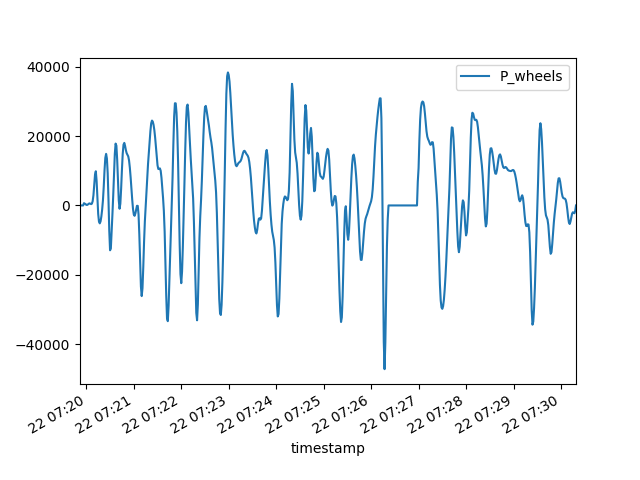
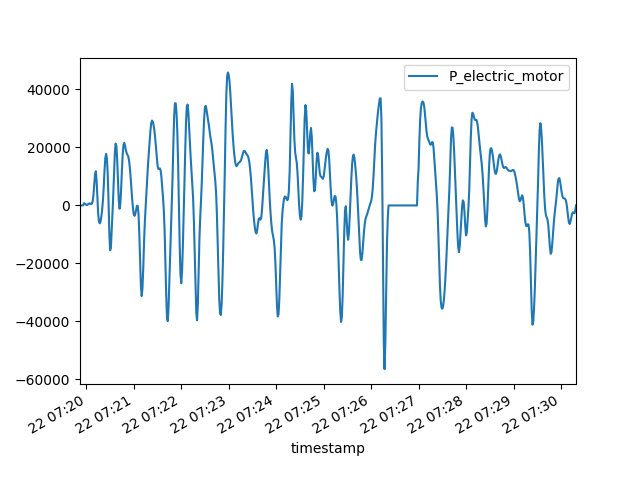
Update 'calculate_energy_consumption'
Included driveline and electric motor efficiencies into the calculation of P_electric_motor, which is added as an extra column in dataframe.

'energy_consumption.png' now plots the power consumption at the electric motor over time, as opposed to power consumption at the wheels over time

diff --git a/EV_data_analysis.py b/EV_data_analysis.py
@@ -49,12 +49,19 @@ def calculate_energy_consumption(data):
     data['speed_mps'] = mph_to_mps * data['speed_mph']
     data['accel_mps2'] = mph_to_mps * data['accel_meters_ps']
 
+    # Power required at the wheels
     data['P_wheels'] = (m * data['accel_mps2'] \
                        + m * g * np.cos(theta) * C_r * 1e-3 * (c_1 * data['speed_mps'] + c_2) \
                        + 0.5 * rho_air * A_f * C_D * (data['speed_mps']**2) \
                        + m * g * np.sin(theta)) * data['speed_mps']
 
-    data.plot(x='timestamp', y='P_wheels')
+    n_driveline = 0.92 # driveline efficiency
+    n_electric_motor = 0.91 # electric motor efficiency (85%-95% for Nissan Leaf)
+
+    # Power at electric motor 
+    data['P_electric_motor'] = data['P_wheels'] / (n_driveline * n_electric_motor)
+
+    data.plot(x='timestamp', y='P_electric_motor')
     plt.savefig('energy_consumption.png')
 
     return data
